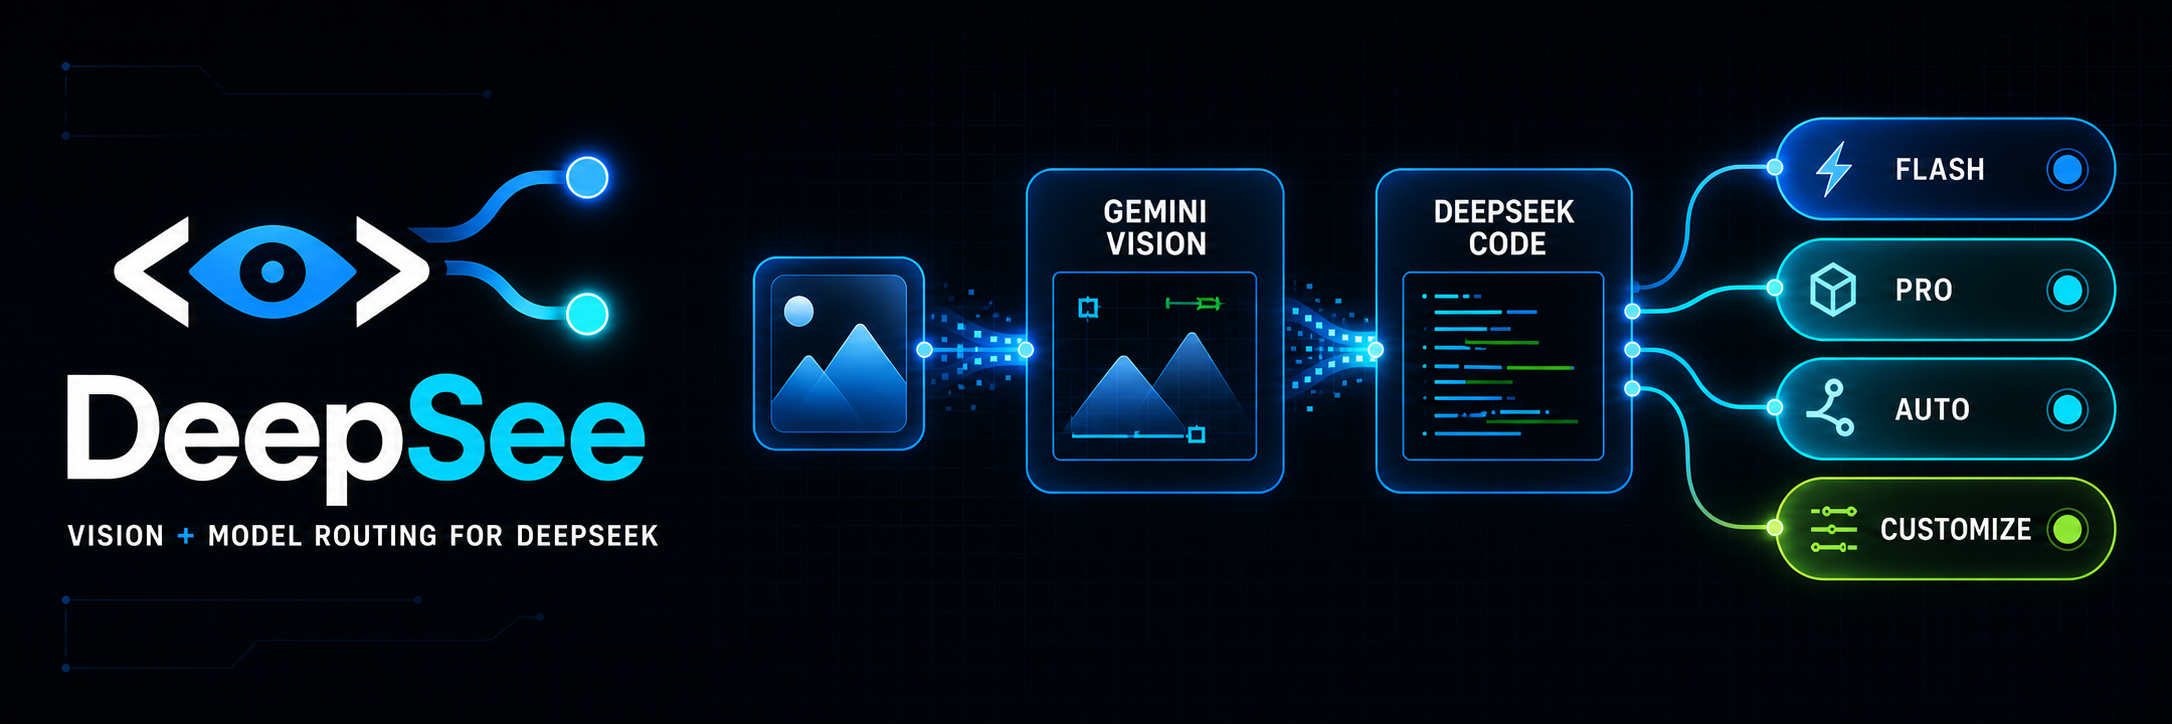
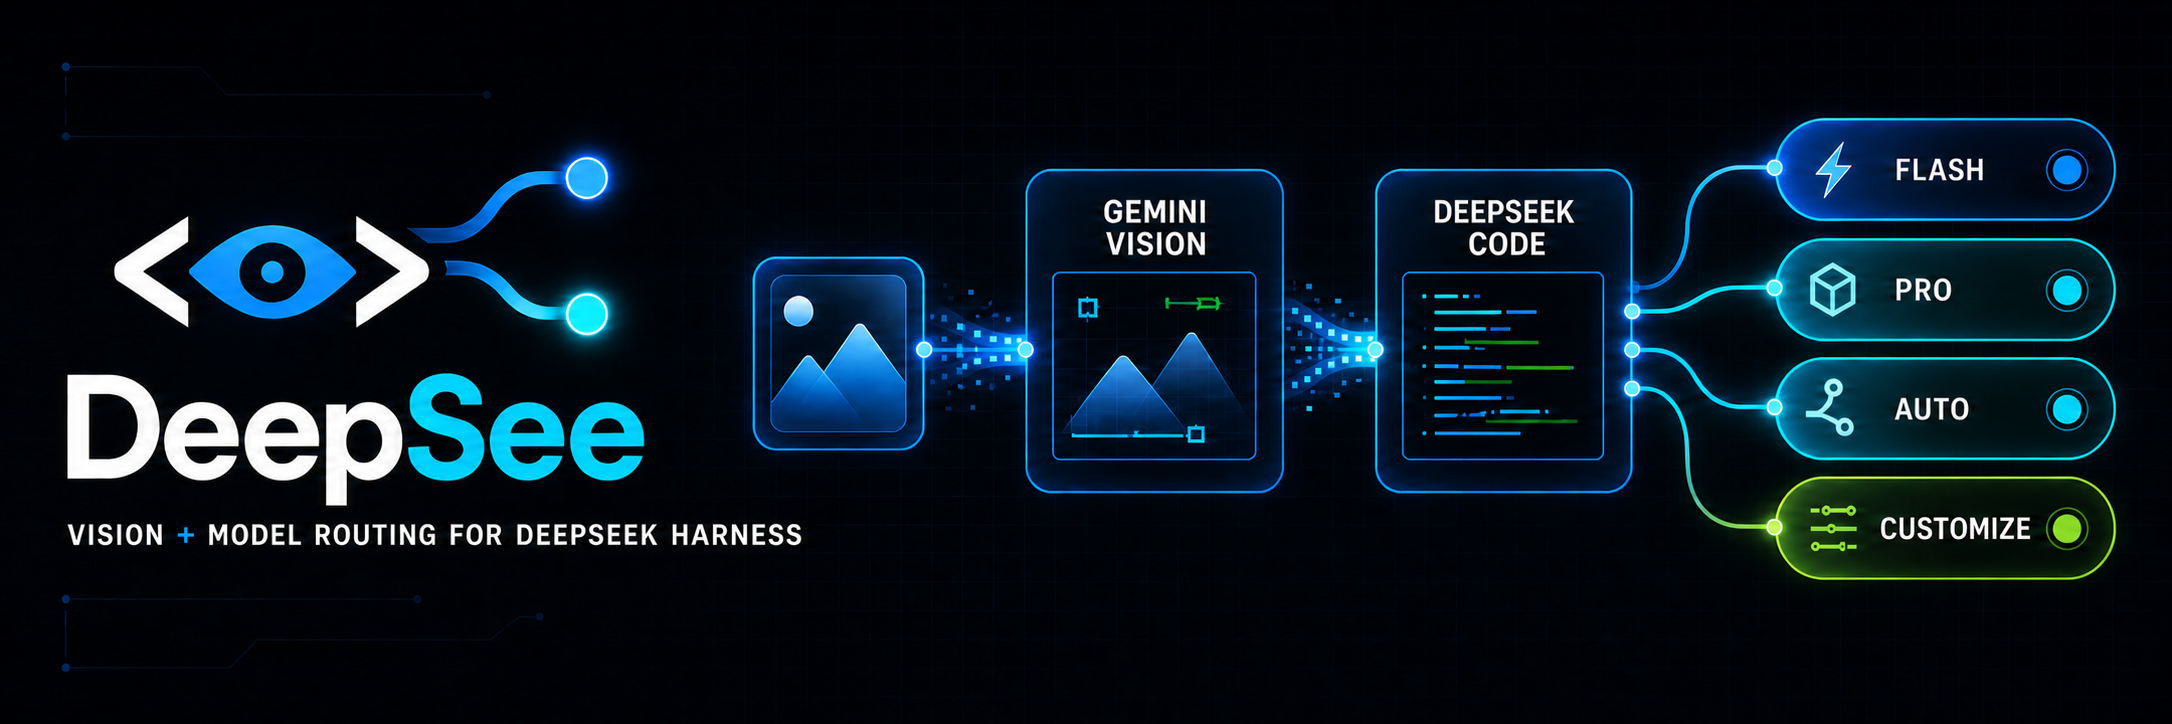
fix: sharpen DeepSeek Harness launch and CI

diff --git a/src/dshControl.test.ts b/src/dshControl.test.ts
@@ -71,7 +71,12 @@ describe('DeepSee control settings', () => {
             previewUrl: 'http://127.0.0.1:4173',
             viewport: '1920x1080',
         });
-        expect(fs.statSync(file).mode & 0o777).toBe(0o600);
+        // Windows does not expose POSIX permission bits through stat; it reads
+        // regular files back as 0o666 even when the write was private. Keep the
+        // functional test cross-platform and verify 0o600 where the OS enforces it.
+        if (typeof process.getuid === 'function') {
+            expect(fs.statSync(file).mode & 0o777).toBe(0o600);
+        }
         const publicAgain = await publicControlSettings(file);
         expect(JSON.stringify(publicAgain)).not.toContain('AIza');
     });

diff --git a/README.md b/README.md
@@ -1,10 +1,10 @@
 <p align="center">
-  <img src="assets/banner.png" width="100%" alt="DeepSee — vision and model routing for DeepSeek" />
+  <img src="assets/banner.png" width="100%" alt="DeepSee — vision and model routing for DeepSeek Harness" />
 </p>
 
 <h1 align="center">DeepSee</h1>
 
-<p align="center"><b>Give DeepSeek vision and smart model routing.</b></p>
+<p align="center"><b>Vision and smart model routing for DeepSeek Harness.</b></p>
 
 <p align="center">
   <a href="./README.zh-CN.md">简体中文</a> ·
